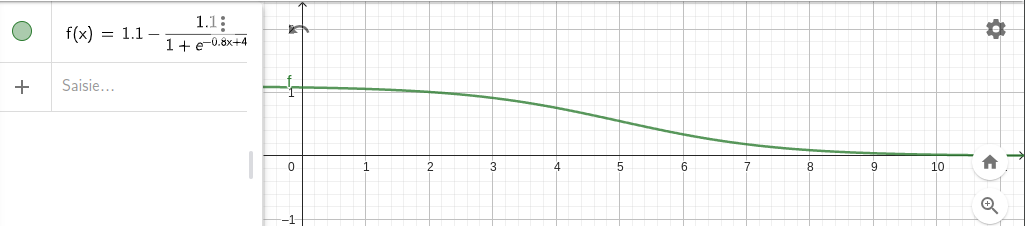
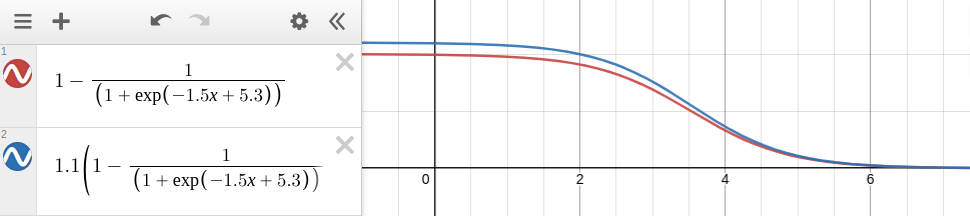
Update time to first key ratio and probabilities computation

diff --git a/src/catalog/en/geography/countries-on-the-map/south-america/meta.js b/src/catalog/en/geography/countries-on-the-map/south-america/meta.js
@@ -1,7 +1,7 @@
 const json = {
   htmlTag: "en-US",
   title: "Elephantizer",
-  description: "Flashcards and typing application. Learn the names of South American countries on the map. For each country displayed, type the name of the country in French.",
+  description: "Flashcards and typing application. Learn the names of South American countries on the map. For each country displayed, type the name of the country in English.",
   resume: "<h1>South American countries on the map</h1><p>Learn the names of the South American countries on the map. For each country displayed, type the name of the country in French. If you don't know, the correct answer will be displayed, so you can learn them as you go along.</p><h2>Elephantizer</h2><p>Elephantizer is a memory and typing application. Thanks to an ingenious system of flash cards and active recall, you memorize the answers to questions on topics you select, such as:</p><ul><li>countries on the map,</li><li>the Greek aphabet,</li><li>foreign language vocabulary...</li></ul><p>At the same time, you improve your keyboarding skills.</p><h2>Fast Memorization</h2><p>For each flash card, you have to type the correct answer to the question asked. The application then calculates a multi-criteria score, taking into account response time, typing speed and mistyped characters. The questions you have the most difficulty memorizing will then be suggested to you more frequently. You'll then have question sequences customized to your learning capacity.</p><h2>Long-Term Retention</h2><p>If you practice regularly, you'll find that you'll memorize very quickly and over the long term. In fact, the application will more frequently suggest the cards you're having the hardest time remembering. However, the cards you already know by heart will also be suggested to you from time to time, to maintain and reinforce the knowledge you've already acquired over the long term.</p><h2>Typing Skills</h2><p>As you type the answers, the application also measures your typing speed in words per minute (wpm) and the number of characters correctly or incorrectly typed. At the same time, it helps you improve your typing speed and accuracy.</p><h2>Correct Spelling</h2><p>Unlike other flash card systems, you learn not only the correct answer, but above all the correct spelling. As the answers are typed on the keyboard, Elephantizer analyzes and checks every character in the answer, so you learn both the answer and its spelling.</p><h2>Conclusion</h2><p>Whether you're a student, a senior citizen or a geek, you're bound to find memorization tests that will help you improve both your typing skills and your general knowledge.</p><p>Start your journey to better memorization and knowledge retention today with Elephantizer!</p>",
   loaderImage: '/static/loader/loader-en.png',
 }

diff --git a/src/catalog/en/geography/countries-on-the-map/europe/meta.js b/src/catalog/en/geography/countries-on-the-map/europe/meta.js
@@ -1,7 +1,7 @@
 const json = {
   htmlTag: "en-US",
   title: "Elephantizer",
-  description: "Flashcards and typing application. Learn the names of European countries on the map. For each country displayed, type the name of the country in French.",
+  description: "Flashcards and typing application. Learn the names of European countries on the map. For each country displayed, type the name of the country in English.",
   resume: "<h1>European countries on the map</h1><p>Learn the names of the European countries on the map. For each country displayed, type the name of the country in French. If you don't know, the correct answer will be displayed, so you can learn them as you go along.</p><h2>Elephantizer</h2><p>Elephantizer is a memory and typing application. Thanks to an ingenious system of flash cards and active recall, you memorize the answers to questions on topics you select, such as:</p><ul><li>countries on the map,</li><li>the Greek aphabet,</li><li>foreign language vocabulary...</li></ul><p>At the same time, you improve your keyboarding skills.</p><h2>Fast Memorization</h2><p>For each flash card, you have to type the correct answer to the question asked. The application then calculates a multi-criteria score, taking into account response time, typing speed and mistyped characters. The questions you have the most difficulty memorizing will then be suggested to you more frequently. You'll then have question sequences customized to your learning capacity.</p><h2>Long-Term Retention</h2><p>If you practice regularly, you'll find that you'll memorize very quickly and over the long term. In fact, the application will more frequently suggest the cards you're having the hardest time remembering. However, the cards you already know by heart will also be suggested to you from time to time, to maintain and reinforce the knowledge you've already acquired over the long term.</p><h2>Typing Skills</h2><p>As you type the answers, the application also measures your typing speed in words per minute (wpm) and the number of characters correctly or incorrectly typed. At the same time, it helps you improve your typing speed and accuracy.</p><h2>Correct Spelling</h2><p>Unlike other flash card systems, you learn not only the correct answer, but above all the correct spelling. As the answers are typed on the keyboard, Elephantizer analyzes and checks every character in the answer, so you learn both the answer and its spelling.</p><h2>Conclusion</h2><p>Whether you're a student, a senior citizen or a geek, you're bound to find memorization tests that will help you improve both your typing skills and your general knowledge.</p><p>Start your journey to better memorization and knowledge retention today with Elephantizer!</p>",
   loaderImage: '/static/loader/loader-en.png',
 }

diff --git a/src/catalog/en/geography/countries-on-the-map/africa/meta.js b/src/catalog/en/geography/countries-on-the-map/africa/meta.js
@@ -1,7 +1,7 @@
 const json = {
   htmlTag: "en-US",
   title: "Elephantizer",
-  description: "Flashcards and typing application. Learn the names of African countries on the map. For each country displayed, type the name of the country in French.",
+  description: "Flashcards and typing application. Learn the names of African countries on the map. For each country displayed, type the name of the country in English.",
   resume: "<h1>African countries on the map</h1><p>Learn the names of the African countries on the map. For each country displayed, type the name of the country in French. If you don't know, the correct answer will be displayed, so you can learn them as you go along.</p><h2>Elephantizer</h2><p>Elephantizer is a memory and typing application. Thanks to an ingenious system of flash cards and active recall, you memorize the answers to questions on topics you select, such as:</p><ul><li>countries on the map,</li><li>the Greek aphabet,</li><li>foreign language vocabulary...</li></ul><p>At the same time, you improve your keyboarding skills.</p><h2>Fast Memorization</h2><p>For each flash card, you have to type the correct answer to the question asked. The application then calculates a multi-criteria score, taking into account response time, typing speed and mistyped characters. The questions you have the most difficulty memorizing will then be suggested to you more frequently. You'll then have question sequences customized to your learning capacity.</p><h2>Long-Term Retention</h2><p>If you practice regularly, you'll find that you'll memorize very quickly and over the long term. In fact, the application will more frequently suggest the cards you're having the hardest time remembering. However, the cards you already know by heart will also be suggested to you from time to time, to maintain and reinforce the knowledge you've already acquired over the long term.</p><h2>Typing Skills</h2><p>As you type the answers, the application also measures your typing speed in words per minute (wpm) and the number of characters correctly or incorrectly typed. At the same time, it helps you improve your typing speed and accuracy.</p><h2>Correct Spelling</h2><p>Unlike other flash card systems, you learn not only the correct answer, but above all the correct spelling. As the answers are typed on the keyboard, Elephantizer analyzes and checks every character in the answer, so you learn both the answer and its spelling.</p><h2>Conclusion</h2><p>Whether you're a student, a senior citizen or a geek, you're bound to find memorization tests that will help you improve both your typing skills and your general knowledge.</p><p>Start your journey to better memorization and knowledge retention today with Elephantizer!</p>",
   loaderImage: '/static/loader/loader-en.png',
 }

diff --git a/src/js/resultCard/view.js b/src/js/resultCard/view.js
@@ -58,7 +58,7 @@ export default class View {
 
     // Set the body data
     this.cardEl.querySelector('.user-answer').textContent = stats.finalAnswer;
-    this.cardEl.querySelector('.memorization-ratio').textContent = `${parseFloat(((100 * stats.memorizationRatioUser).toFixed(1)))}%`;    
+    this.cardEl.querySelector('.new-score').textContent = `${parseFloat(((100 * stats.newScore).toFixed(1)))}%`;    
     let searchTime = stats.time - stats.typingTime;
     this.cardEl.querySelector(".search-time").innerText = `${(searchTime / 1000).toFixed((searchTime < 12000) ? 1 : 0)}s`;
     this.cardEl.querySelector(".time").innerText = `${(stats.time / 1000).toFixed((stats.time < 12000) ? 1 : 0)}s`;
@@ -83,9 +83,9 @@ export default class View {
     // Update score pie chart
     pie.disableAnimation();
     pie.setUnit('%');
-    const { r, g, b } = this.interpolateColor(stats.newScore);
+    const { r, g, b } = this.interpolateColor(stats.memorizationRatioUser);
     pie.setColors(`rgb(${r}, ${g}, ${b})`, colors.lightGrey);
-    pie.setRatio(stats.newScore, 0, stats.newScore, 1);
+    pie.setRatio(stats.memorizationRatioUser, 0, stats.memorizationRatioUser, 1);
 
 
     // Prepare progression badge

diff --git a/src/js/questionStatistics/model.js b/src/js/questionStatistics/model.js
@@ -58,6 +58,7 @@ class Model {
     // Update the deck global statistics and get previous and new score
     this.data.newScore = statistics.update(this.data.path, this.data.uid, this.data.memorizationRatio);
 
+    
     // Add the question in the results    
     results.addQuestion(this.data);    
   }
@@ -79,9 +80,9 @@ class Model {
    */
   computeTimeToFirstKeyRatio() {
     const timeToFirstKey_sec = (this.data.time-this.data.typingTime)/1000;
-    const ratio = 1-1/(1+Math.exp(-0.8*timeToFirstKey_sec + 4))
+    const ratio = 1-1/(1+Math.exp(-1.5*timeToFirstKey_sec + 5.3));
     this.data.timeToFirstKeyRatio = ratio;
-    this.data.timeToFirstKeyRatioUser = Math.min(1.0907*ratio, 1);
+    this.data.timeToFirstKeyRatioUser = Math.min(1.1002588437228038*ratio, 1);
   }
 
 

diff --git a/src/js/resultCard/translate.js b/src/js/resultCard/translate.js
@@ -8,7 +8,7 @@ const translations = {
   en: {
     badgePrefix: "#",
     yourAnswer: "Answered:",
-    score: "Score:",
+    score: "Global score:",
     progressRatio: "Progress:",
     searchTime: "Search:",
     totalTime: "Time:",
@@ -24,7 +24,7 @@ const translations = {
   fr: {
     badgePrefix: "",
     yourAnswer: "Répondu :",
-    score: "Score :",
+    score: "Score global :",
     progressRatio: "Progression :",
     searchTime: "Recherche :",
     totalTime: "Temps :",

diff --git a/src/js/resultCard/card.html b/src/js/resultCard/card.html
@@ -30,7 +30,7 @@
         <div class="col-6 ps-1 user-answer"></div>
 
         <div class="col-6 text-end pe-1"><%=score%></div>
-        <div class="col-6 ps-1 memorization-ratio"></div>
+        <div class="col-6 ps-1 new-score"></div>
 
         <div class="col-6 text-end pe-1"><%=searchTime%></div>
         <div class="col-6 ps-1 search-time"></div>

diff --git a/src/js/generator/model.js b/src/js/generator/model.js
@@ -151,7 +151,7 @@ class Model {
    */
   computeProbabilities() {
     // Get beta coefficient
-    let beta = settings.get("beta");
+    let beta = 2.2*settings.get("beta");
 
     // Prepare data
     let stats = this.questions.map((q, i) => {

diff --git a/raw/matlab/score2proba.m b/raw/matlab/score2proba.m
@@ -5,7 +5,7 @@ clc;
 
 
 zraw=[  0.8 ; 0.85 ; 0.95 ; 0.99 ; 0.87 ; 0.67 ];
-%zraw=[  0.8 ; 0.85 ; 0.7 ; 0.99 ; 0.87 ; 0.67 ];
+zraw=[  0.8 ; 0.85 ; 0.7 ; 0.99 ; 0.87 ; 0.67 ];
 %zraw=[  0.62 ; 0.63 ; 0.65 ; 0.9 ; 0.61 ; 0.69 ];
 
 
@@ -17,8 +17,8 @@ z=1-(zraw-min(zraw));
 
 
 % Set and scale beta
-beta = 6;
-
+beta = 10;
+beta = 2.2*beta;
 
 
 Sigma = sum(exp(beta*z))

diff --git a/README.md b/README.md
@@ -1,3 +1,36 @@
+![Elephantizer logo](./src/assets/static/logo/logo-square-300x300.png)
+
+
+# Elephantizer - The Ultimate Memorization and Typing App
+
+[Elephantizer](http://elephantizer.com) is a memory and typing application. Thanks to an ingenious system of flash cards and active recall, you memorize the answers to questions on topics you select, such as:
+
+* [countries on the map](https://elephantizer.com/en/geography/countries-on-the-map/europe/),
+* [the Greek aphabet](https://elephantizer.com/en/foreign-languages/greek/lowercase-alphabet/),
+* [foreign language vocabulary](https://elephantizer.com/en/foreign-languages/french/colors/)...
+
+At the same time, you improve your keyboarding skills.
+
+![Screenshot of the Elephantizer app](screenshot_france.png)
+
+## Fast Memorization
+For each flash card, you have to type the correct answer to the question asked. The application then calculates a multi-criteria score, taking into account response time, typing speed and mistyped characters. The questions you have the most difficulty memorizing will then be suggested to you more frequently. You'll then have question sequences customized to your learning capacity.
+
+## Long-Term Retention
+If you practice regularly, you'll find that you'll memorize very quickly and over the long term. In fact, the application will more frequently suggest the cards you're having the hardest time remembering. However, the cards you already know by heart will also be suggested to you from time to time, to maintain and reinforce the knowledge you've already acquired over the long term.
+
+## Typing Skills
+As you type the answers, the application also measures your typing speed in words per minute (wpm) and the number of characters correctly or incorrectly typed. At the same time, it helps you improve your typing speed and accuracy.
+
+## Correct Spelling
+Unlike other flash card systems, you learn not only the correct answer, but above all the correct spelling. As the answers are typed on the keyboard, Elephantizer analyzes and checks every character in the answer, so you learn both the answer and its spelling.
+
+## Conclusion
+Whether you're a student, a senior citizen or a geek, you're bound to find memorization tests that will help you improve both your typing skills and your general knowledge.
+
+Start your journey to better memorization and knowledge retention today with Elephantizer!
+
+
 ## TODO
 
 * Do the arrows on Friconix for the progress results

diff --git a/src/js/questionStatistics/README.md b/src/js/questionStatistics/README.md
@@ -25,4 +25,10 @@ $$ WPM = 12000 \times { N_{characters} \over T_{milliseconds} }$$
 
 The following formula is used to convert the time to first key into ratio in the range [0; 1]:
 
-![Time to first key ratio formula](time-to-first-key-ratio.png)
+$$ 1-\frac{1}{\left(1+\exp\left(-1.5x+5.3\right)\right)} $$
+
+When time to first key is less than 2 seconds, the ratio is closed to one, and decrease as the time increase:
+
+[![Time to first key ratio formula](time-to-first-key-ratio.png)](https://www.desmos.com/calculator/q9wh7zoljc)
+
+The factor to get the user time to first key ratio is: 1.1002588437228038
